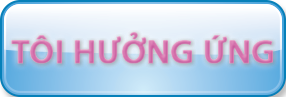
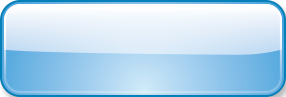
Duyên fix style

Changed region(s): [[0.2517, 0.3093, 0.979, 0.7113], [0.028, 0.3402, 0.2238, 0.6804]]

diff --git a/wp-content/themes/vilagankhoe/css/skeleton.css b/wp-content/themes/vilagankhoe/css/skeleton.css
@@ -405,28 +405,28 @@ there.
 /* Larger than mobile */
 @media (min-width: 400px) {
 	.container{
-		width: 320px;
+		/*width: 320px;*/
 	}
 }
 
 /* Larger than phablet (also point when grid becomes active) */
 @media (min-width: 550px) {
 	.container{
-		width: 480px;
+		/*width: 480px;*/
 	}
 }
 
 /* Larger than tablet */
 @media (min-width: 750px) {
 	.container{
-		width: 768px;
+		/*width: 768px;*/
 	}
 }
 
 /* Larger than desktop */
 @media (min-width: 1000px) {
 	.container{
-		width: 960px;
+		/*width: 960px;*/
 	}
 }
 

diff --git a/wp-content/themes/vilagankhoe/page-templates/homepage.php b/wp-content/themes/vilagankhoe/page-templates/homepage.php
@@ -29,7 +29,7 @@ get_header();
 			</div>
 			<div id="toihuongung" class="left">
 				<div class="top">
-					<button value="" id="btn-toihuongung"></button>
+					<button value="" id="btn-toihuongung">Tôi hưởng ứng</button>
 				</div>
 				<div id="sohuongung">
 					<strong id="concurred_count" class="number"><?= number_format_i18n(get_post_meta(get_option('page_on_front'), 'concurred_count', true), 0); ?></strong>
